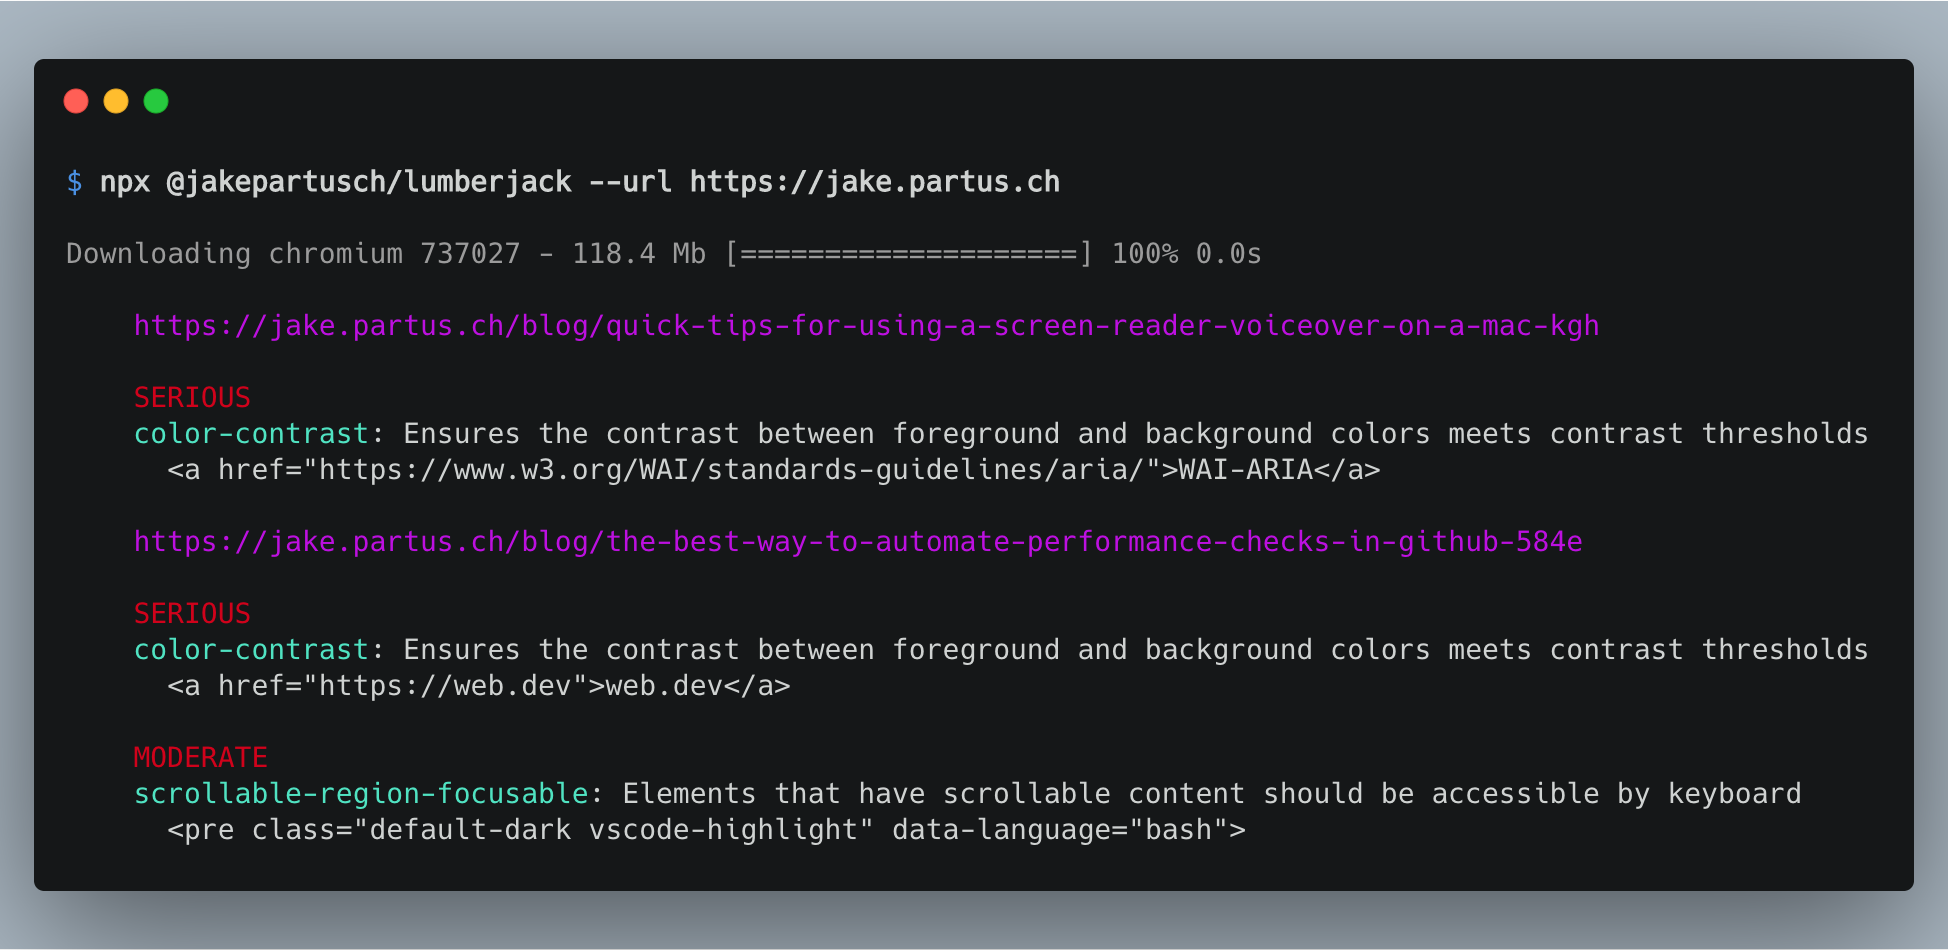
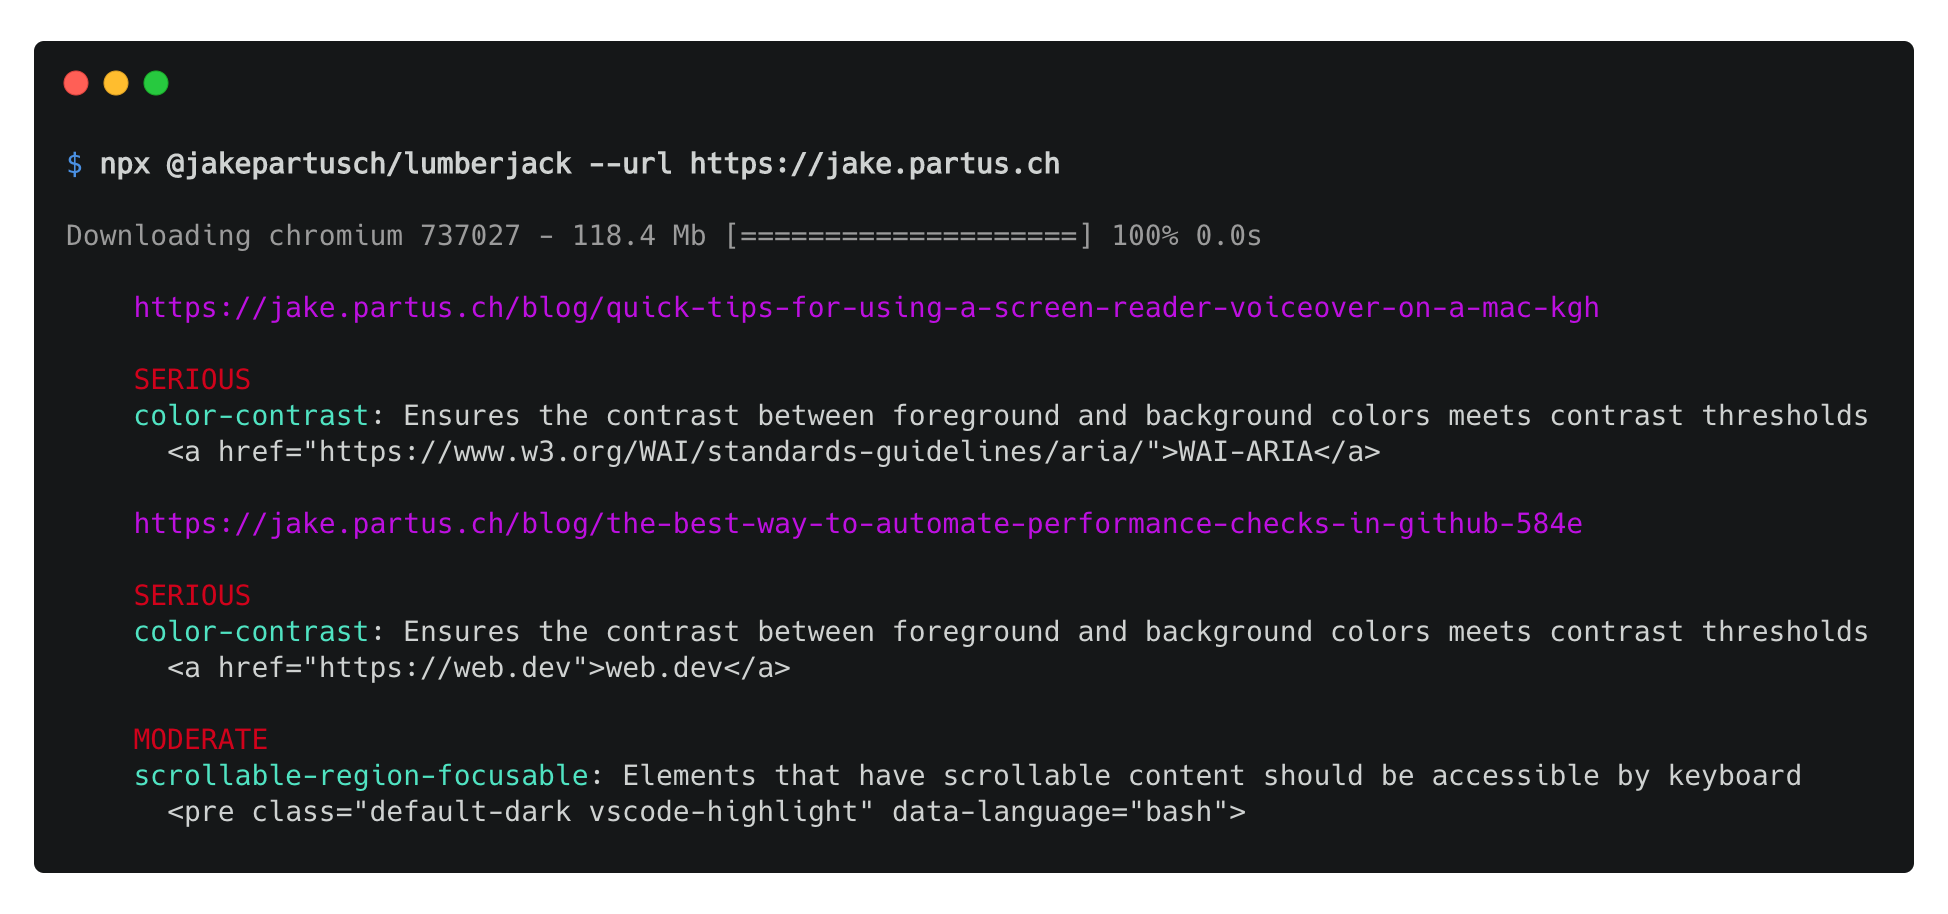
feat: updating background. increasing size

diff --git a/README.md b/README.md
@@ -21,7 +21,7 @@ Lumberjack runs [axe](https://www.deque.com/axe/) accessibility checks on your e
 # Example
 
 <p align="center">
-  <img src="./cli-screenshot.png" alt="Screenshot of lumberjack in action. Print the individual accessibility issues found in an example" width="600px"/>
+  <img src="./cli-screenshot.png" alt="Screenshot of lumberjack in action. Print the individual accessibility issues found in an example" width="768px"/>
 </p>
 
 # Usage
